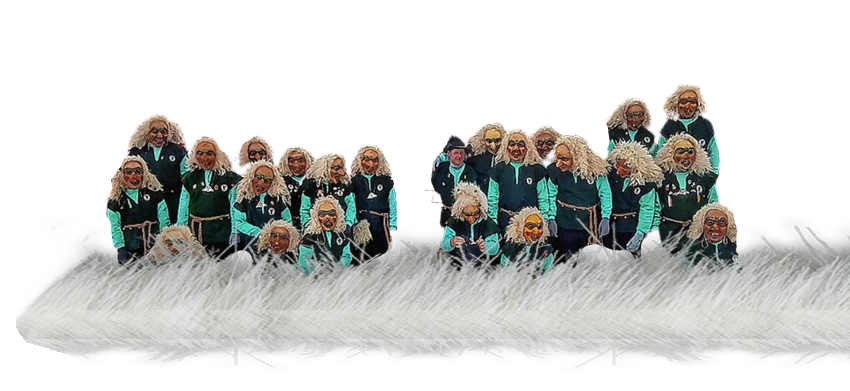
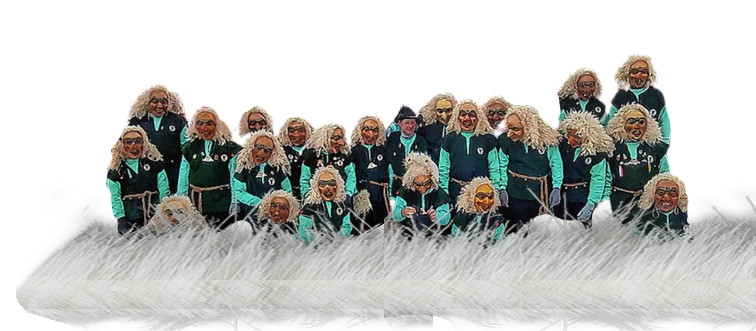
sitemap + styling + images management

diff --git a/pages/vorstandschaft/index.js b/pages/vorstandschaft/index.js
@@ -9,15 +9,14 @@ export default function ManagementMembers({ overviewPages, management }) {
 
     return <>
         <h1 className="headline">{membersOverview[0].pageTitle}</h1>
-        <section style={{ display: 'flex', gap: '2rem 2rem', flexDirection: 'row', flexWrap: 'wrap' }}>
+        <section style={{ display: 'flex', gap: '2rem 2rem', flexDirection: 'row', flexWrap: 'wrap', justifyContent: 'space-around' }}>
             {management.sort((memberA, memberB) => memberA.order - memberB.order).map(member => {
                 console.log({ member })
                 const imgSrc = generateImgSrc(member.image.asset._ref);
 
                 return <>
-                    <div style={{ width: '300px', position: 'relative' }}>
-                        <span style={{ position: 'absolute', left: '2.5rem', top: '3.5rem', backgroundColor: 'black', fontWeight: '700', color: 'white', padding: '0.25rem' }}>comming soon</span>
-                        <Image alt={member.position} src={imgSrc} width={200} height={200} unoptimized={true} style={{ objectFit: 'cover' }} />
+                    <div style={{ position: 'relative' }}>
+                        <Image alt={member.position} src={imgSrc} width={150} height={200} unoptimized={true} style={{ objectFit: 'cover' }} />
                         <div style={{
                             fontSize: '1.25rem', fontWeight: 700, margin: '0.5rem auto 0.25rem'
                         }}>{member.position}</div>
@@ -25,7 +24,35 @@ export default function ManagementMembers({ overviewPages, management }) {
                     </div>
                 </>
             })}
-        </section>
+        </section >
+        <br />
+        <hr />
+        <br />
+
+        <h2>Beisitzer:</h2>
+        <ul >
+            <li style={{ fontWeight: 500, margin: 0 }}>
+                Steffen Hornstein
+            </li>
+            <li style={{ fontWeight: 500, margin: 0 }}>
+                Ronny Preuß
+            </li>
+            <li style={{ fontWeight: 500, margin: 0 }}>
+                Steffanie Rinderle
+            </li>
+            <li style={{ fontWeight: 500, margin: 0 }}>
+                Manuel Nadler
+            </li>
+            <li style={{ fontWeight: 500, margin: 0 }}>
+                Bastian Preuß
+            </li>
+            <li style={{ fontWeight: 500, margin: 0 }}>
+                Saskia Baiker
+            </li>
+            <li style={{ fontWeight: 500, margin: 0 }}>
+                Simon Eilmus
+            </li>
+        </ul>
     </>;
 }
 

diff --git a/src/components/Navi/Navi.tsx b/src/components/Navi/Navi.tsx
@@ -23,7 +23,7 @@ export default function Navi({ naviItems }: Props) {
     if (wholeClubImg) {
       setTimeout(
         () => (
-          (wholeClubImg.style.top = "-60px"),
+          (wholeClubImg.style.top = "-45px"),
           (wholeClubImg.style.transition = "top 1s")
         ),
         500
@@ -91,6 +91,7 @@ export default function Navi({ naviItems }: Props) {
         src="/gruppenbild-mit-fell.png"
         className="wholeClub"
         id="wholeClubId"
+        width={200}
       />
     </header>
   );

diff --git a/styles.css b/styles.css
@@ -139,9 +139,9 @@ body,
 .wholeClub {
   display: inline;
   position: absolute;
-  right: -75px;
+  right: -45px;
   top: 200px;
-  width: 700px;
+  width: 630px;
   height: auto !important;
   z-index: -2;
 }
@@ -456,7 +456,8 @@ body,
   .wholeClub {
     opacity: 0.5;
     top: 20px;
-    right: -100px;
+    right: -60px;
+    width: 600px;
   }
 }
 
